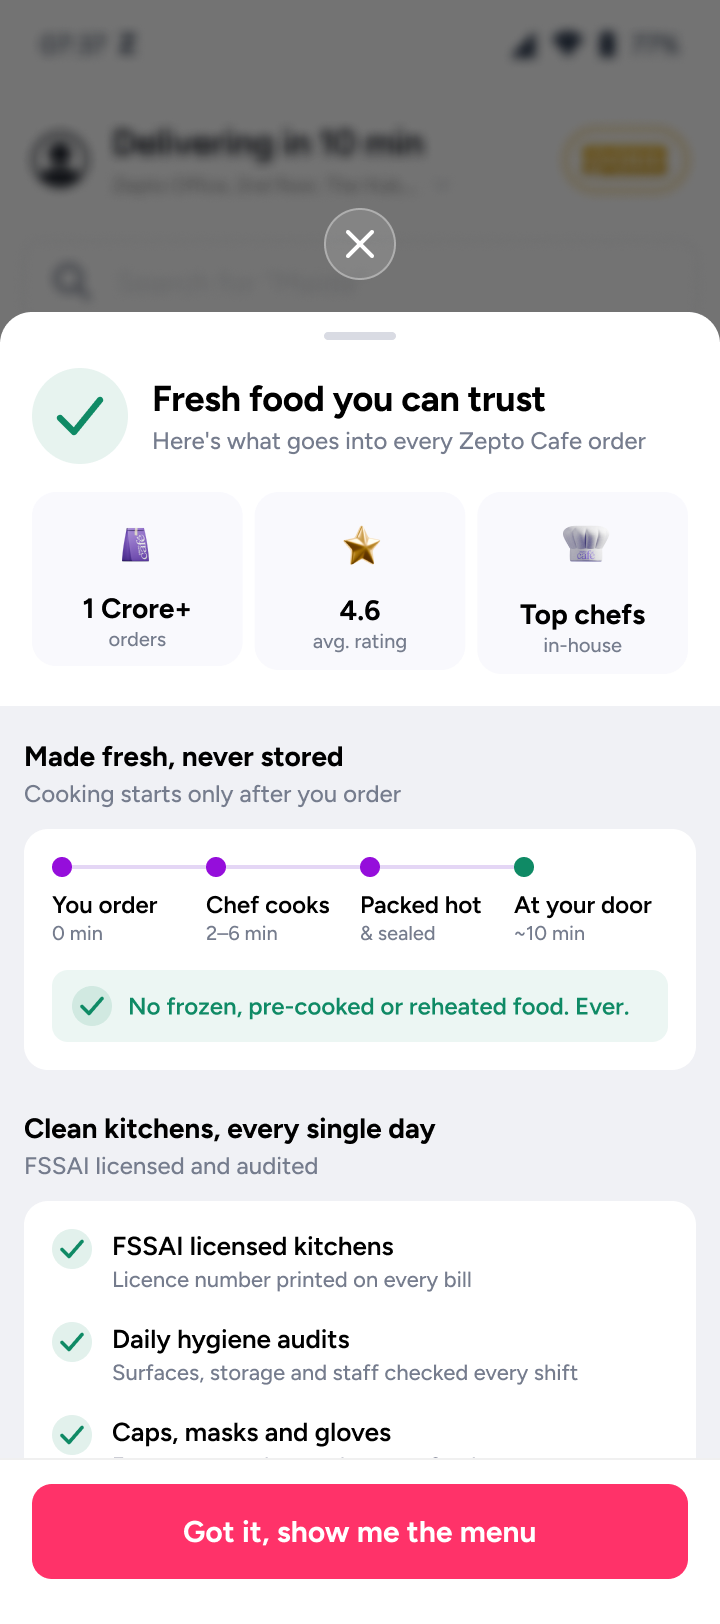
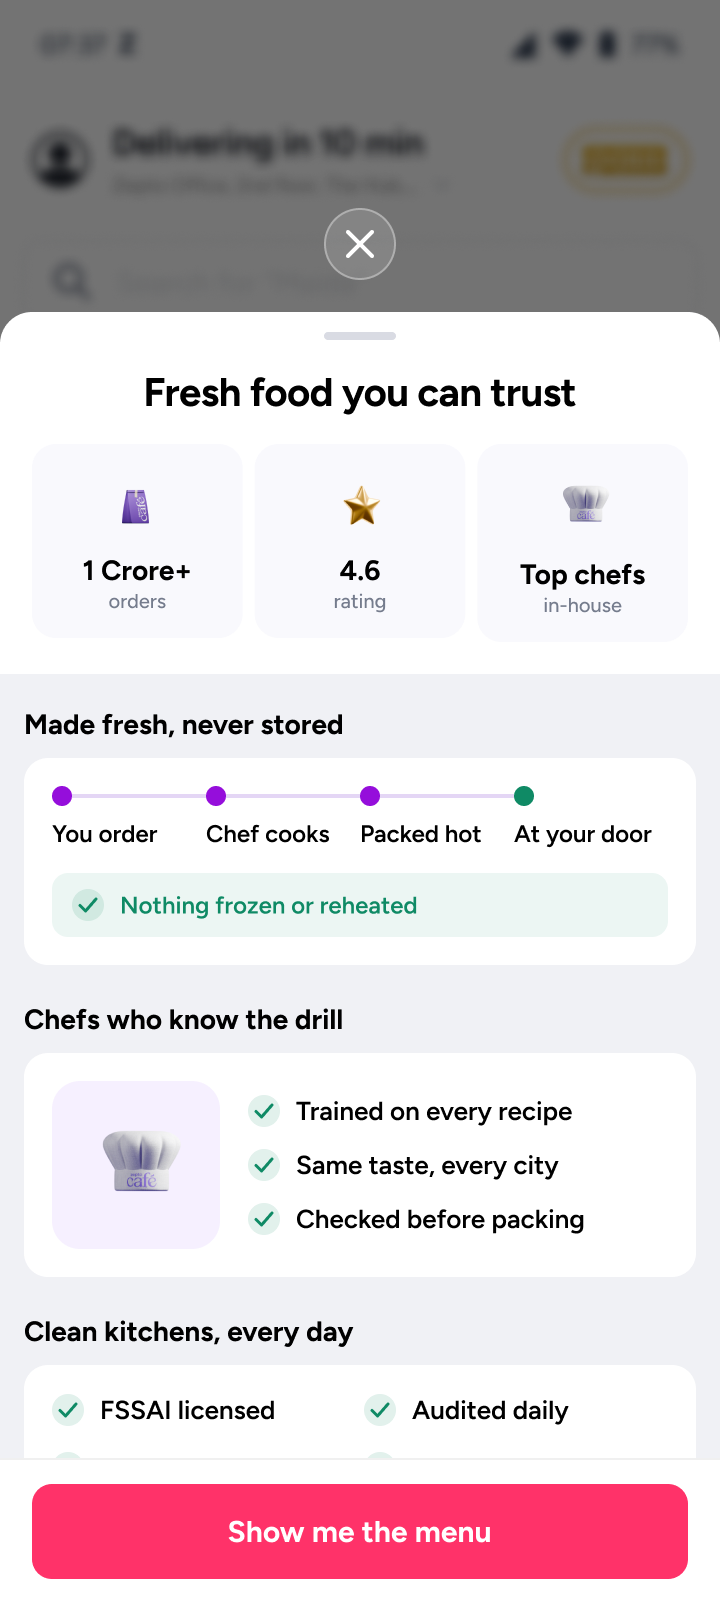
Zepto Cafe: leaner trust sheet, chef section, landing exploration; drop add-ons screen from intro

diff --git a/index.html b/index.html
@@ -2032,7 +2032,6 @@ renderFeatured();
             <div class="cs-hero-shots" aria-hidden="true">
               <img src="work/zepto-cafe/01-store-picker.png" alt="">
               <img src="work/zepto-cafe/02-cafe-home.png" alt="">
-              <img src="work/zepto-cafe/09-addons.png" alt="">
             </div>
           </div>
         </section>
@@ -2113,14 +2112,14 @@ renderFeatured();
           <span class="cs-frame-name">Cafe home / Trust sheet</span>
           <div class="cs-card cs-step">
             <div class="cs-step-text"><span class="cs-num">03 · Trust</span><h3 class="cs-h2">"Is it really fresh?"</h3>
-              <p class="cs-p">The strip under the logo says 1 crore+ orders, 4.6 rated, top chefs. Nice, but it doesn't answer the question people actually had.</p>
-              <p class="cs-p">So tapping it opens a sheet that does. Cooking starts only after you order, kitchens are FSSAI licensed and checked every day, chefs are trained on every recipe, and ratings come from real orders <span class="e">✅</span>.</p>
-              <p class="cs-scroll-hint">Scroll the last phone to read the whole sheet</p>
+              <p class="cs-p">Tap the trust strip and a sheet answers it: made after you order, chefs who know the drill, clean kitchens, real ratings.</p>
+              <p class="cs-p">I also tried a bolder full-page version <span class="e">✨</span>.</p>
             </div>
             <div class="cs-phones">
               <figure class="cs-phone"><img src="work/zepto-cafe/trust-tap.png" alt="Tapping the trust strip on the cafe home" loading="lazy"><figcaption>Tap the strip</figcaption></figure>
-              <figure class="cs-phone"><img src="work/zepto-cafe/trust-open.png" alt="Trust sheet opening over the cafe home" loading="lazy"><figcaption>The sheet opens</figcaption></figure>
-              <figure class="cs-phone cs-phone-scroll"><div class="cs-scroller" tabindex="0" aria-label="The full trust sheet. Scroll to read."><img src="work/zepto-cafe/trust-full.png" alt="The full trust sheet" loading="lazy"></div><figcaption>The whole sheet</figcaption></figure>
+              <figure class="cs-phone"><img src="work/zepto-cafe/trust-open.png" alt="Trust sheet opening over the cafe home" loading="lazy"><figcaption>The sheet</figcaption></figure>
+              <figure class="cs-phone cs-phone-scroll"><div class="cs-scroller" tabindex="0" aria-label="The full trust sheet. Scroll to read."><img src="work/zepto-cafe/trust-full.png" alt="The full trust sheet" loading="lazy"></div><figcaption>Scroll the sheet</figcaption></figure>
+              <figure class="cs-phone cs-phone-scroll"><div class="cs-scroller" tabindex="0" aria-label="Full-page trust landing exploration. Scroll to read."><img src="work/zepto-cafe/trust-landing.png" alt="A bold full-page trust landing" loading="lazy"></div><figcaption>Exploration · Landing page</figcaption></figure>
             </div>
           </div>
         </section>
